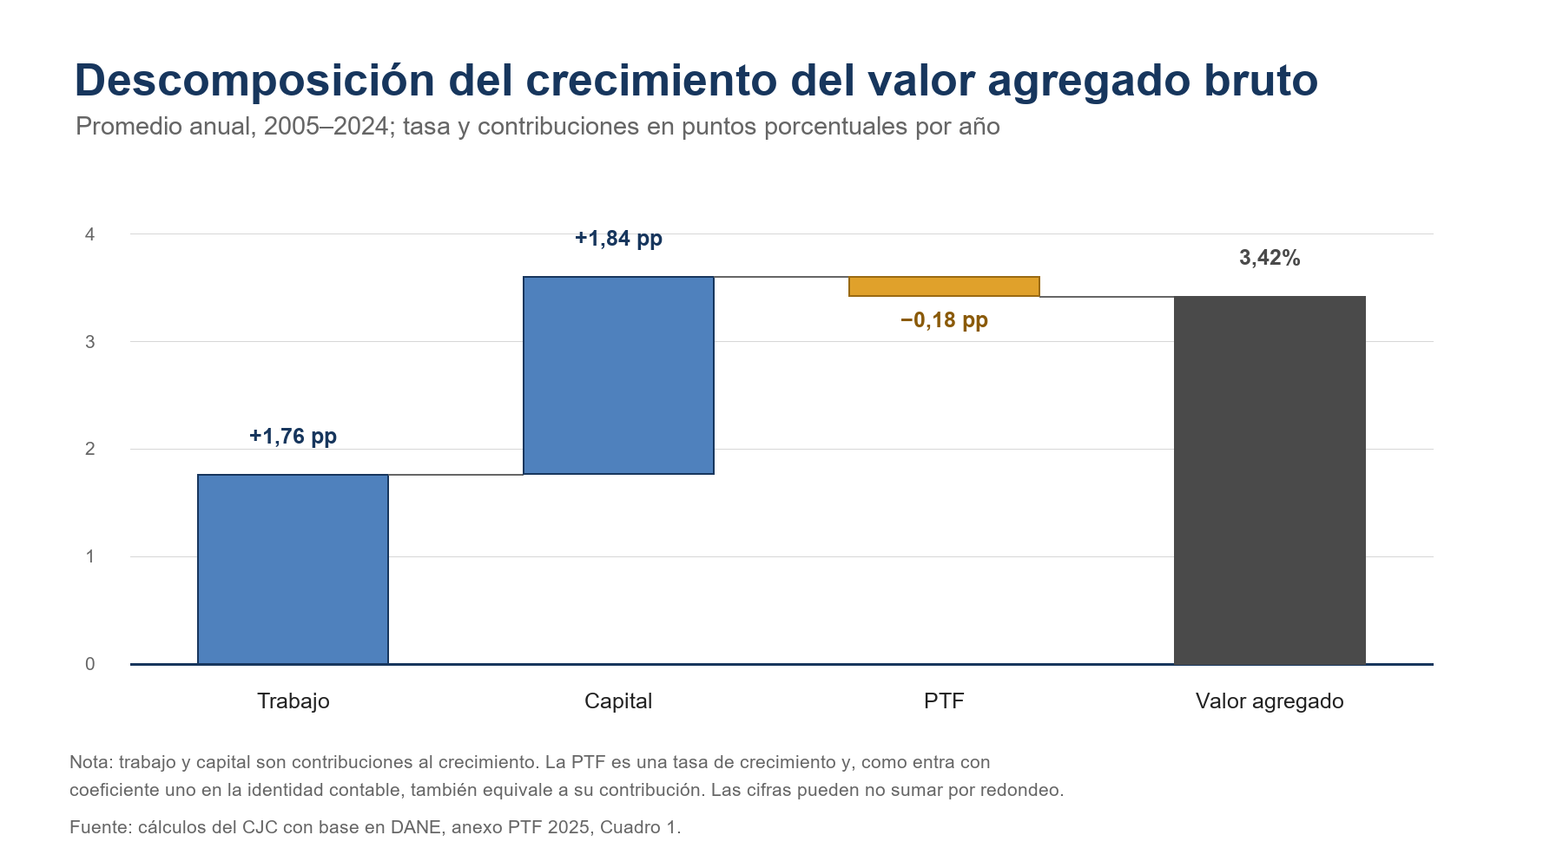
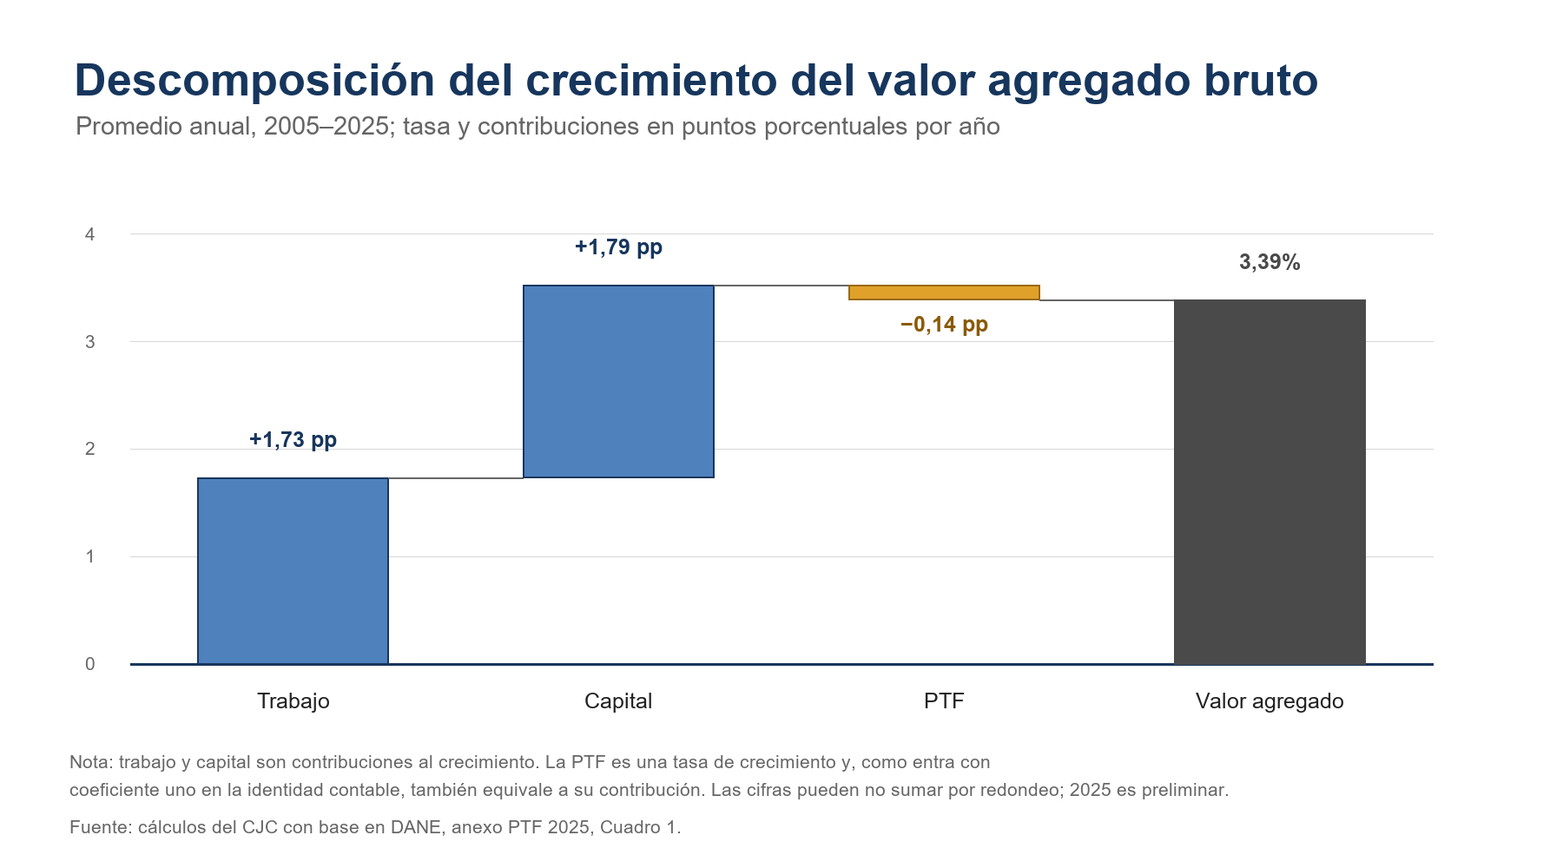
Extend aggregate TFP results through 2025

diff --git a/Paper/sections/CuerpoInformePTF.tex b/Paper/sections/CuerpoInformePTF.tex
@@ -6,14 +6,14 @@
 
 \textbf{El objetivo de este informe es establecer si el estancamiento agregado de la PTF durante las 20 tasas anuales de 2005 a 2024 fue un patrón común o el saldo de trayectorias de signo contrario entre actividades económicas.} El informe usa el enfoque de valor agregado para presentar el resultado macroeconómico y el enfoque de producción para comparar nueve agregados de actividad y calcular su contribución a la PTF total.
 
-\textbf{El periodo contiene 20 tasas de crecimiento anuales, desde 2005 hasta 2024, que enlazan los niveles de 2004 y 2024.} El informe promedia esas tasas logarítmicas para calcular la tasa anualizada y las encadena para obtener el cambio acumulado. En el análisis sectorial, también recupera las ponderaciones anuales implícitas en la publicación del DANE. El documento académico \emph{Aggregate Stagnation and Sectoral Divergence: Total Factor Productivity in Colombia, 2005--2024} presenta esa derivación y sus validaciones.
+\textbf{El análisis sectorial contiene 20 tasas de crecimiento anuales, desde 2005 hasta 2024, que enlazan los niveles de 2004 y 2024.} El Cuadro 1 del anexo permite extender el resultado agregado bajo el enfoque de valor agregado hasta 2025. Ese bloque usa 21 tasas anuales y enlaza los niveles de 2004 y 2025; la cifra de 2025 es preliminar. El informe promedia las tasas logarítmicas para calcular la tasa anualizada y las encadena para obtener el cambio acumulado. En el análisis sectorial, también recupera las ponderaciones anuales implícitas en la publicación del DANE. El documento académico \emph{Aggregate Stagnation and Sectoral Divergence: Total Factor Productivity in Colombia, 2005--2024} presenta la derivación sectorial y sus validaciones.
 
-\textbf{El valor agregado bruto creció 3,42\% anual, mientras la tasa anualizada de crecimiento de la PTF fue de $-0,18$\%.} El trabajo aportó 1,76 puntos porcentuales por año y el capital 1,84. Bajo este enfoque, la PTF disminuyó 3,6\% acumulado entre 2004 y 2024. Por lo tanto, el crecimiento del valor agregado dependió de las contribuciones del trabajo y el capital.
+\textbf{El valor agregado bruto creció 3,39\% anual entre 2005 y 2025, mientras la tasa anualizada de crecimiento de la PTF fue de $-0,14$\%.} El trabajo aportó 1,73 puntos porcentuales por año y el capital 1,79. Bajo este enfoque, la PTF disminuyó 2,8\% acumulado entre 2004 y 2025. Por lo tanto, el crecimiento del valor agregado dependió de las contribuciones del trabajo y el capital.
 
 \textbf{El enfoque de producción muestra que el estancamiento agregado fue el saldo de trayectorias sectoriales opuestas.} La PTF de comercio aumentó 23,2\% y la de minería disminuyó 32,1\%. Al incorporar el peso de cada actividad, comercio, servicios sociales, agricultura y transporte aportaron 0,315 puntos porcentuales por año. Las otras cinco actividades restaron 0,389 puntos porcentuales por año. El saldo fue una disminución acumulada de 1,5\% en la PTF total.
 
-\enlargethispage{2\baselineskip}
-\textbf{Si la tasa de crecimiento de la PTF hubiera sido un punto porcentual mayor cada año, el crecimiento del valor agregado bruto habría pasado de 3,42\% a 4,42\% anual.} Su nivel en 2024 habría sido 22,1\% mayor que el observado. El resultado aproxima el efecto sobre el PIB si la participación de los impuestos netos sobre los productos permanece constante. El informe también presenta un contrafactual sectorial dentro del enfoque de producción.
+\enlargethispage{5\baselineskip}
+\textbf{Si la tasa de crecimiento de la PTF hubiera sido un punto porcentual mayor cada año, el crecimiento del valor agregado bruto habría pasado de 3,39\% a 4,39\% anual.} Su nivel en 2025 habría sido 23,4\% mayor que el observado. El resultado aproxima el efecto sobre el PIB si la participación de los impuestos netos sobre los productos permanece constante. El informe también presenta un contrafactual sectorial dentro del enfoque de producción.
 
 \clearpage
 \section{Metodología}
@@ -21,7 +21,7 @@
 
 \textbf{El informe combina los dos enfoques publicados por el DANE.} El enfoque de valor agregado descompone el crecimiento agregado entre las contribuciones del trabajo, el capital y la PTF. El enfoque de producción añade la energía, los materiales y los servicios, y permite comparar nueve actividades económicas. En ambos casos, la PTF es un residuo contable y puede recoger cambios en la utilización de la capacidad, reasignaciones y errores de medición.
 
-\textbf{El DANE reporta tasas de crecimiento logarítmicas y el CJC las usa directamente para calcular las tasas anualizadas y los cambios acumulados.} La tasa anualizada es el promedio de las 20 tasas anuales. Para tasas pequeñas, la diferencia frente al cambio porcentual convencional es mínima. El cambio acumulado se obtiene al encadenar las tasas y se reporta como la variación porcentual exacta del índice. En el enfoque de producción, el CJC recupera los ponderadores anuales implícitos y calcula la contribución de cada actividad antes de promediar. Los contrafactuales modifican únicamente las tasas de crecimiento de la PTF y mantienen constantes las demás contribuciones. Por eso, describen identidades contables y no efectos causales.
+\textbf{El DANE reporta tasas de crecimiento logarítmicas y el CJC las usa directamente para calcular las tasas anualizadas y los cambios acumulados.} La tasa anualizada es el promedio de las tasas disponibles: 21 en el enfoque de valor agregado y 20 en el análisis sectorial bajo el enfoque de producción. Para tasas pequeñas, la diferencia frente al cambio porcentual convencional es mínima. El cambio acumulado se obtiene al encadenar las tasas y se reporta como la variación porcentual exacta del índice. En el enfoque de producción, el CJC recupera los ponderadores anuales implícitos y calcula la contribución de cada actividad antes de promediar. Los contrafactuales modifican únicamente las tasas de crecimiento de la PTF y mantienen constantes las demás contribuciones. Por eso, describen identidades contables y no efectos causales.
 
 \textbf{El paper académico contiene la metodología sectorial completa.} \emph{Aggregate Stagnation and Sectoral Divergence: Total Factor Productivity in Colombia, 2005--2024} presenta las ecuaciones de encadenamiento, la recuperación y validación de los ponderadores, la descomposición de largo plazo y el contrafactual por actividades. El documento y los materiales de replicación están disponibles en el \href{https://github.com/oliverpardo1979/informe_ptf}{repositorio del proyecto}. El \href{https://www.dane.gov.co/files/investigaciones/boletines/pib/productividad/doc-metodologico-PTF-productividad-total-factores-2021.pdf}{documento metodológico del DANE} describe los enfoques de valor agregado y producción.
 
@@ -32,27 +32,27 @@
 
 \subsection{El crecimiento agregado dependió del trabajo y el capital}
 
-\textbf{La PTF del total de la economía disminuyó 3,6\% entre 2004 y 2024 bajo el enfoque de valor agregado.} La Figura \ref{fig:ptf_total_anual_va} presenta las 20 tasas de crecimiento anuales usadas para obtener ese resultado. La tasa fue positiva en 10 años y negativa en 10, pero las reducciones fueron mayores: la tasa anualizada fue de $-0,182$\%.
+\textbf{La PTF del total de la economía disminuyó 2,8\% entre 2004 y 2025 bajo el enfoque de valor agregado.} La Figura \ref{fig:ptf_total_anual_va} presenta las 21 tasas de crecimiento anuales usadas para obtener ese resultado. La tasa fue positiva en 11 años y negativa en 10, pero las reducciones fueron mayores: la tasa anualizada fue de $-0,137$\%. La observación de 2025 es preliminar.
 
 \begin{figure}[H]
   \centering
   \includegraphics[width=0.98\textwidth]{Paper/figures/fig_ptf_total_anual_valor_agregado.png}
-  \caption{Tasa anual de crecimiento de la PTF del total de la economía bajo el enfoque de valor agregado, 2005--2024}
+  \caption{Tasa anual de crecimiento de la PTF del total de la economía bajo el enfoque de valor agregado, 2005--2025}
   \label{fig:ptf_total_anual_va}
 \end{figure}
 
-\textbf{El valor agregado bruto creció 3,42\% anual, aunque la tasa anualizada de crecimiento de la PTF fue de $-0,18$\%.} La Figura \ref{fig:descomposicion_valor_agregado} muestra que el trabajo aportó 1,76 puntos porcentuales por año y el capital 1,84. La PTF restó 0,18 puntos porcentuales por año. Por lo tanto, el crecimiento del valor agregado se explicó por las contribuciones del trabajo y el capital.
+\textbf{El valor agregado bruto creció 3,39\% anual entre 2005 y 2025, aunque la tasa anualizada de crecimiento de la PTF fue de $-0,14$\%.} La Figura \ref{fig:descomposicion_valor_agregado} muestra que el trabajo aportó 1,73 puntos porcentuales por año y el capital 1,79. La PTF restó 0,14 puntos porcentuales por año. Por lo tanto, el crecimiento del valor agregado se explicó por las contribuciones del trabajo y el capital.
 
 \begin{figure}[H]
   \centering
   \includegraphics[width=0.98\textwidth]{Paper/figures/fig_descomposicion_valor_agregado.png}
-  \caption{Descomposición del crecimiento del valor agregado bruto total, 2005--2024}
+  \caption{Descomposición del crecimiento del valor agregado bruto total, 2005--2025}
   \label{fig:descomposicion_valor_agregado}
 \end{figure}
 
-\textbf{Si la tasa de crecimiento de la PTF hubiera sido un punto porcentual mayor cada año, el crecimiento del valor agregado bruto habría sido de 4,42\% anual.} El ejercicio eleva la tasa anualizada de la PTF de $-0,182$\% a 0,818\% y mantiene constantes las contribuciones del trabajo y el capital. Al encadenar las 20 tasas anuales, el nivel del valor agregado bruto en 2024 habría sido 22,1\% mayor que el observado.
+\textbf{Si la tasa de crecimiento de la PTF hubiera sido un punto porcentual mayor cada año, el crecimiento del valor agregado bruto habría sido de 4,39\% anual.} El ejercicio eleva la tasa anualizada de la PTF de $-0,137$\% a 0,863\% y mantiene constantes las contribuciones del trabajo y el capital. Al encadenar las 21 tasas anuales, el nivel del valor agregado bruto en 2025 habría sido 23,4\% mayor que el observado.
 
-El contrafactual no identifica una política capaz de elevar un punto porcentual la tasa de crecimiento de la PTF cada año ni incorpora respuestas del trabajo y el capital. Además, el anexo del DANE descompone el valor agregado bruto, mientras el PIB también incluye los impuestos netos sobre los productos. El aumento de 22,1\% solo aproxima el efecto sobre el PIB si la participación de esos impuestos en el PIB permanece constante.
+El contrafactual no identifica una política capaz de elevar un punto porcentual la tasa de crecimiento de la PTF cada año ni incorpora respuestas del trabajo y el capital. Además, el anexo del DANE descompone el valor agregado bruto, mientras el PIB también incluye los impuestos netos sobre los productos. El aumento de 23,4\% solo aproxima el efecto sobre el PIB si la participación de esos impuestos en el PIB permanece constante.
 
 \textbf{El resto del informe usa el enfoque de producción para comparar actividades.} En ese enfoque, la PTF del total de la economía disminuyó 1,5\% acumulado y registró una tasa anualizada de $-0,073$\%. La diferencia frente al enfoque de valor agregado no es una inconsistencia: el enfoque de producción descuenta también la contribución de los insumos intermedios.
 
@@ -136,12 +136,13 @@ El ejercicio mide la importancia contable de las tasas negativas de crecimiento 
 
 \textbf{La tasa anualizada de la PTF total, de $-0,073$\%, fue el saldo de contribuciones sectoriales de signo contrario.} Comercio, servicios sociales, agricultura y transporte aportaron 0,315 puntos porcentuales por año. Finanzas e inmobiliarias, minería, construcción, manufactura y electricidad restaron 0,389 puntos porcentuales por año. El efecto de cada actividad dependió de la tasa de crecimiento de su PTF y de su peso anual. Por eso, la caída moderada de la PTF manufacturera tuvo un efecto agregado similar a la caída más pronunciada de la construcción.
 
-\textbf{El enfoque de valor agregado confirma el estancamiento macroeconómico.} La PTF disminuyó 3,6\% acumulado, mientras el valor agregado bruto creció 3,42\% anual porque el trabajo aportó 1,76 puntos porcentuales y el capital 1,84. El crecimiento dependió de las contribuciones del trabajo y el capital, no de aumentos de la PTF.
+\textbf{El enfoque de valor agregado confirma el estancamiento macroeconómico.} Entre 2004 y 2025, la PTF disminuyó 2,8\% acumulado. El valor agregado bruto creció 3,39\% anual porque el trabajo aportó 1,73 puntos porcentuales y el capital 1,79. El crecimiento dependió de las contribuciones del trabajo y el capital, no de aumentos de la PTF.
 
-\textbf{Los contrafactuales cuantifican dos márgenes contables, no ganancias que puedan obtenerse automáticamente.} Una tasa de crecimiento de la PTF un punto porcentual mayor cada año habría elevado el crecimiento del valor agregado bruto de 3,42\% a 4,42\% anual; su nivel en 2024 habría sido 22,1\% mayor. Fijar en cero la tasa anual de crecimiento de la PTF de las cuatro actividades con menor crecimiento habría elevado el crecimiento de la producción de 3,26\% a 3,59\% anual. Ninguno de los dos ejercicios identifica una intervención; el primero solo aproxima el efecto sobre el PIB si la participación de los impuestos netos sobre los productos permanece constante.
+\textbf{Los contrafactuales cuantifican dos márgenes contables, no ganancias que puedan obtenerse automáticamente.} Una tasa de crecimiento de la PTF un punto porcentual mayor cada año habría elevado el crecimiento del valor agregado bruto de 3,39\% a 4,39\% anual; su nivel en 2025 habría sido 23,4\% mayor. Fijar en cero la tasa anual de crecimiento de la PTF de las cuatro actividades con menor crecimiento habría elevado el crecimiento de la producción de 3,26\% a 3,59\% anual. Ninguno de los dos ejercicios identifica una intervención; el primero solo aproxima el efecto sobre el PIB si la participación de los impuestos netos sobre los productos permanece constante.
 
 \textbf{La descomposición permite formular hipótesis, pero no identifica las causas de cada resultado.} En minería, deben distinguirse el agotamiento de recursos, la composición de la extracción, la inversión y las condiciones regulatorias. Finanzas e inmobiliarias combina actividades distintas y problemas de medición propios de estos servicios. En construcción, es necesario separar el ciclo de inversión y la utilización de capacidad de la productividad de los proyectos.
 
+\enlargethispage{3\baselineskip}
 \textbf{La política de productividad debe comenzar por identificar obstáculos verificables dentro de las actividades que más restan.} En manufactura, el diagnóstico debe medir la adopción de tecnologías, las prácticas gerenciales y la exposición a mercados externos. En construcción, debe evaluar el licenciamiento, la gestión de proyectos y la adopción de métodos digitales e industrializados. En minería, debe estudiar la exploración, la infraestructura y la estabilidad de la inversión junto con las salvaguardas ambientales. Para finanzas e inmobiliarias, la prioridad es separar las subactividades que originan la contribución negativa. Un siguiente contrafactual debe usar referencias alcanzables e incorporar las respuestas de los factores y los precios.
 
 \clearpage

diff --git a/scripts/build_ptf_data.py b/scripts/build_ptf_data.py
@@ -382,11 +382,11 @@ def build_value_added_counterfactual(
     rows = [
         row
         for row in observations
-        if 2005 <= int(row["year"]) <= 2024
+        if 2005 <= int(row["year"]) <= 2025
     ]
-    if len(rows) != 20:
+    if len(rows) != 21:
         raise RuntimeError(
-            "El contrafactual de valor agregado requiere 20 observaciones"
+            "El contrafactual de valor agregado requiere 21 observaciones"
         )
     max_identity_error = max(
         abs(
@@ -415,7 +415,7 @@ def build_value_added_counterfactual(
         {
             "scenario": "Observado",
             **averages,
-            "value_added_index_2024": observed_index,
+            "value_added_index_2025": observed_index,
             "level_difference_vs_observed": 0.0,
             "annual_tfp_increment": 0.0,
         },
@@ -430,7 +430,7 @@ def build_value_added_counterfactual(
                 "factors": averages["factors"],
                 "ptf": averages["ptf"] + 1,
             },
-            "value_added_index_2024": counterfactual_index,
+            "value_added_index_2025": counterfactual_index,
             "level_difference_vs_observed": (
                 100 * (counterfactual_index / observed_index - 1)
             ),
@@ -766,12 +766,12 @@ def draw_value_added_tfp_bars(
     rows = [
         row
         for row in observations
-        if 2005 <= int(row["year"]) <= 2024
+        if 2005 <= int(row["year"]) <= 2025
     ]
     rows.sort(key=lambda row: int(row["year"]))
     img, draw, f = canvas(
         "Tasa anual de crecimiento de la PTF del total de la economía",
-        "Enfoque de valor agregado, 2005–2024; tasa logarítmica (%)",
+        "Enfoque de valor agregado, 2005–2025; tasa logarítmica (%)",
         1800,
         1000,
     )
@@ -859,7 +859,7 @@ def draw_value_added_tfp_bars(
 
     draw.text(
         (80, 886),
-        "Nota: azul indica una tasa positiva y rojo, una tasa negativa. El DANE reporta tasas logarítmicas.",
+        "Nota: azul indica una tasa positiva y rojo, una tasa negativa. El DANE reporta tasas logarítmicas; 2025 es preliminar.",
         fill=GRAY,
         font=f["small"],
     )
@@ -886,7 +886,7 @@ def draw_value_added_waterfall(summary: list[dict[str, object]]) -> None:
 
     img, draw, f = canvas(
         "Descomposición del crecimiento del valor agregado bruto",
-        "Promedio anual, 2005–2024; tasa y contribuciones en puntos porcentuales por año",
+        "Promedio anual, 2005–2025; tasa y contribuciones en puntos porcentuales por año",
         1800,
         1000,
     )
@@ -1010,7 +1010,7 @@ def draw_value_added_waterfall(summary: list[dict[str, object]]) -> None:
     )
     draw.text(
         (80, 897),
-        "coeficiente uno en la identidad contable, también equivale a su contribución. Las cifras pueden no sumar por redondeo.",
+        "coeficiente uno en la identidad contable, también equivale a su contribución. Las cifras pueden no sumar por redondeo; 2025 es preliminar.",
         fill=GRAY,
         font=f["small"],
     )
@@ -2091,7 +2091,7 @@ def main() -> None:
     write_csv(COUNTERFACTUAL_ANNUAL_CSV, counterfactual_annual)
     write_csv(COUNTERFACTUAL_SUMMARY_CSV, counterfactual_summary)
     write_csv(
-        PROCESSED / "ptf_valor_agregado_resumen_2005_2024.csv",
+        PROCESSED / "ptf_valor_agregado_resumen_2005_2025.csv",
         value_added_summary,
     )
     write_tex_tables(comparison_long_run)
@@ -2154,7 +2154,7 @@ def main() -> None:
         f"{float(value_added_counterfactual['gross_value_added']):.6f}"
     )
     print(
-        "Diferencia de nivel del valor agregado en 2024: "
+        "Diferencia de nivel del valor agregado en 2025: "
         f"{float(value_added_counterfactual['level_difference_vs_observed']):.6f}%"
     )
 

diff --git a/main.tex b/main.tex
@@ -109,15 +109,15 @@
 \section*{Resumen ejecutivo}
 \addcontentsline{toc}{section}{Resumen ejecutivo}
 
-\textbf{La PTF del total de la economía prácticamente no creció entre 2004 y 2024, pero ese resultado no fue común a todas las actividades.} Este informe estudia las 20 tasas anuales de 2005 a 2024 y establece cuánto contribuyó cada actividad económica al total. El enfoque de valor agregado se usa para describir el resultado macroeconómico. El enfoque de producción, que incorpora los insumos intermedios, se usa para comparar nueve actividades y descomponer sus contribuciones.
+\textbf{La PTF del total de la economía prácticamente no creció entre 2004 y 2024, pero ese resultado no fue común a todas las actividades.} Este informe estudia las 20 tasas sectoriales de 2005 a 2024 y establece cuánto contribuyó cada actividad económica al total. El DANE publica una observación adicional, preliminar, de 2025 para el enfoque de valor agregado, que se usa para describir el resultado macroeconómico. El enfoque de producción, que incorpora los insumos intermedios, se usa para comparar nueve actividades y descomponer sus contribuciones.
 
-\textbf{El valor agregado bruto creció 3,42\% anual entre 2005 y 2024: el trabajo aportó 1,76 puntos porcentuales por año, el capital 1,84 y la tasa anualizada de crecimiento de la PTF fue de $-0,18$\%.} La PTF del total de la economía disminuyó 3,6\% acumulado bajo el enfoque de valor agregado. El crecimiento se explicó por las contribuciones del trabajo y el capital, no por aumentos de la PTF.
+\textbf{El valor agregado bruto creció 3,39\% anual entre 2005 y 2025: el trabajo aportó 1,73 puntos porcentuales por año, el capital 1,79 y la tasa anualizada de crecimiento de la PTF fue de $-0,14$\%.} La PTF del total de la economía disminuyó 2,8\% acumulado entre 2004 y 2025 bajo el enfoque de valor agregado. El crecimiento se explicó por las contribuciones del trabajo y el capital, no por aumentos de la PTF.
 
 \textbf{La PTF total oculta trayectorias sectoriales que avanzaron en direcciones opuestas.} Bajo el enfoque de producción, la PTF de comercio aumentó 23,2\% y la de minería disminuyó 32,1\%. Agricultura, servicios sociales y transporte también registraron aumentos acumulados; las otras cinco actividades registraron reducciones.
 
 \textbf{La tasa anualizada de la PTF total, de $-0,073$\%, fue el saldo de contribuciones positivas y negativas que casi se compensaron.} Comercio, servicios sociales, agricultura y transporte aportaron en conjunto 0,315 puntos porcentuales por año. Las otras cinco actividades restaron 0,389 puntos porcentuales por año. Comercio registró la mayor contribución positiva, mientras finanzas e inmobiliarias y minería registraron las mayores contribuciones negativas.
 
-\textbf{Si la tasa de crecimiento de la PTF hubiera sido un punto porcentual mayor cada año, el crecimiento del valor agregado bruto habría pasado de 3,42\% a 4,42\% anual.} Al acumular las 20 tasas anuales, su nivel en 2024 habría sido 22,1\% mayor que el observado. El anexo del DANE descompone el valor agregado bruto, no los impuestos netos sobre los productos. Por eso, el 22,1\% solo aproxima el efecto sobre el PIB si la participación de esos impuestos en el PIB permanece constante.
+\textbf{Si la tasa de crecimiento de la PTF hubiera sido un punto porcentual mayor cada año, el crecimiento del valor agregado bruto habría pasado de 3,39\% a 4,39\% anual.} Al acumular las 21 tasas anuales, su nivel en 2025 habría sido 23,4\% mayor que el observado. El anexo del DANE descompone el valor agregado bruto, no los impuestos netos sobre los productos. Por eso, el 23,4\% solo aproxima el efecto sobre el PIB si la participación de esos impuestos en el PIB permanece constante.
 \end{mdframed}
 
 \newpage

diff --git a/comunicado_prensa_ptf.tex b/comunicado_prensa_ptf.tex
@@ -53,6 +53,13 @@ agricultura, comercio, servicios sociales y transporte, y disminuyó en las
 otras cinco actividades analizadas. La PTF de comercio aumentó 23,2\%;
 la de minería disminuyó 32,1\%.
 
+\textbf{El resultado macroeconómico puede extenderse hasta 2025 bajo el enfoque
+de valor agregado.} Entre 2005 y 2025, el valor agregado bruto creció 3,39\%
+anual. El trabajo aportó 1,73 puntos porcentuales por año y el capital 1,79,
+mientras la tasa anualizada de crecimiento de la PTF fue de $-0,14$\%. La PTF
+disminuyó 2,8\% acumulado entre 2004 y 2025; la observación de 2025 es
+preliminar.
+
 \textbf{El estancamiento agregado fue el saldo de contribuciones positivas y
 negativas que casi se compensaron.} Comercio aportó 0,130 puntos porcentuales
 por año; servicios sociales, 0,112; y agricultura, 0,056. Finanzas e
@@ -93,7 +100,8 @@ trabajo, capital, energía, materiales y servicios. La PTF es el residuo del
 crecimiento que no explican esos factores y no debe leerse como una medida pura
 de innovación o tecnología. El DANE reporta las tasas en términos logarítmicos;
 el informe las promedia para obtener las tasas anualizadas y las encadena para
-calcular los cambios acumulados.
+calcular los cambios acumulados. El bloque agregado bajo el enfoque de valor
+agregado incluye 21 tasas, desde 2005 hasta 2025.
 
 \vfill
 {\color{cjcblue}\rule{\textwidth}{0.8pt}}

diff --git a/README.md b/README.md
@@ -28,9 +28,11 @@ por el paper.
 
 Los cálculos sectoriales usan los cuadros anuales del enfoque de producción y
 el bloque macroeconómico usa el Cuadro 1 del enfoque de valor agregado. El
-cambio entre los niveles de 2004 y 2024 se construye con las 20 tasas
-logarítmicas correspondientes a 2005--2024. La observación rotulada 2005 mide
-el crecimiento entre 2004 y 2005 y se incluye como el primer año.
+análisis sectorial encadena las 20 tasas logarítmicas de 2005--2024 y compara
+los niveles de 2004 y 2024. El bloque de valor agregado incluye además la tasa
+preliminar de 2025: encadena 21 tasas y compara los niveles de 2004 y 2025. En
+ambos casos, la observación rotulada 2005 mide el crecimiento entre 2004 y
+2005 y se incluye como el primer año.
 
 Los documentos principales son:
 
